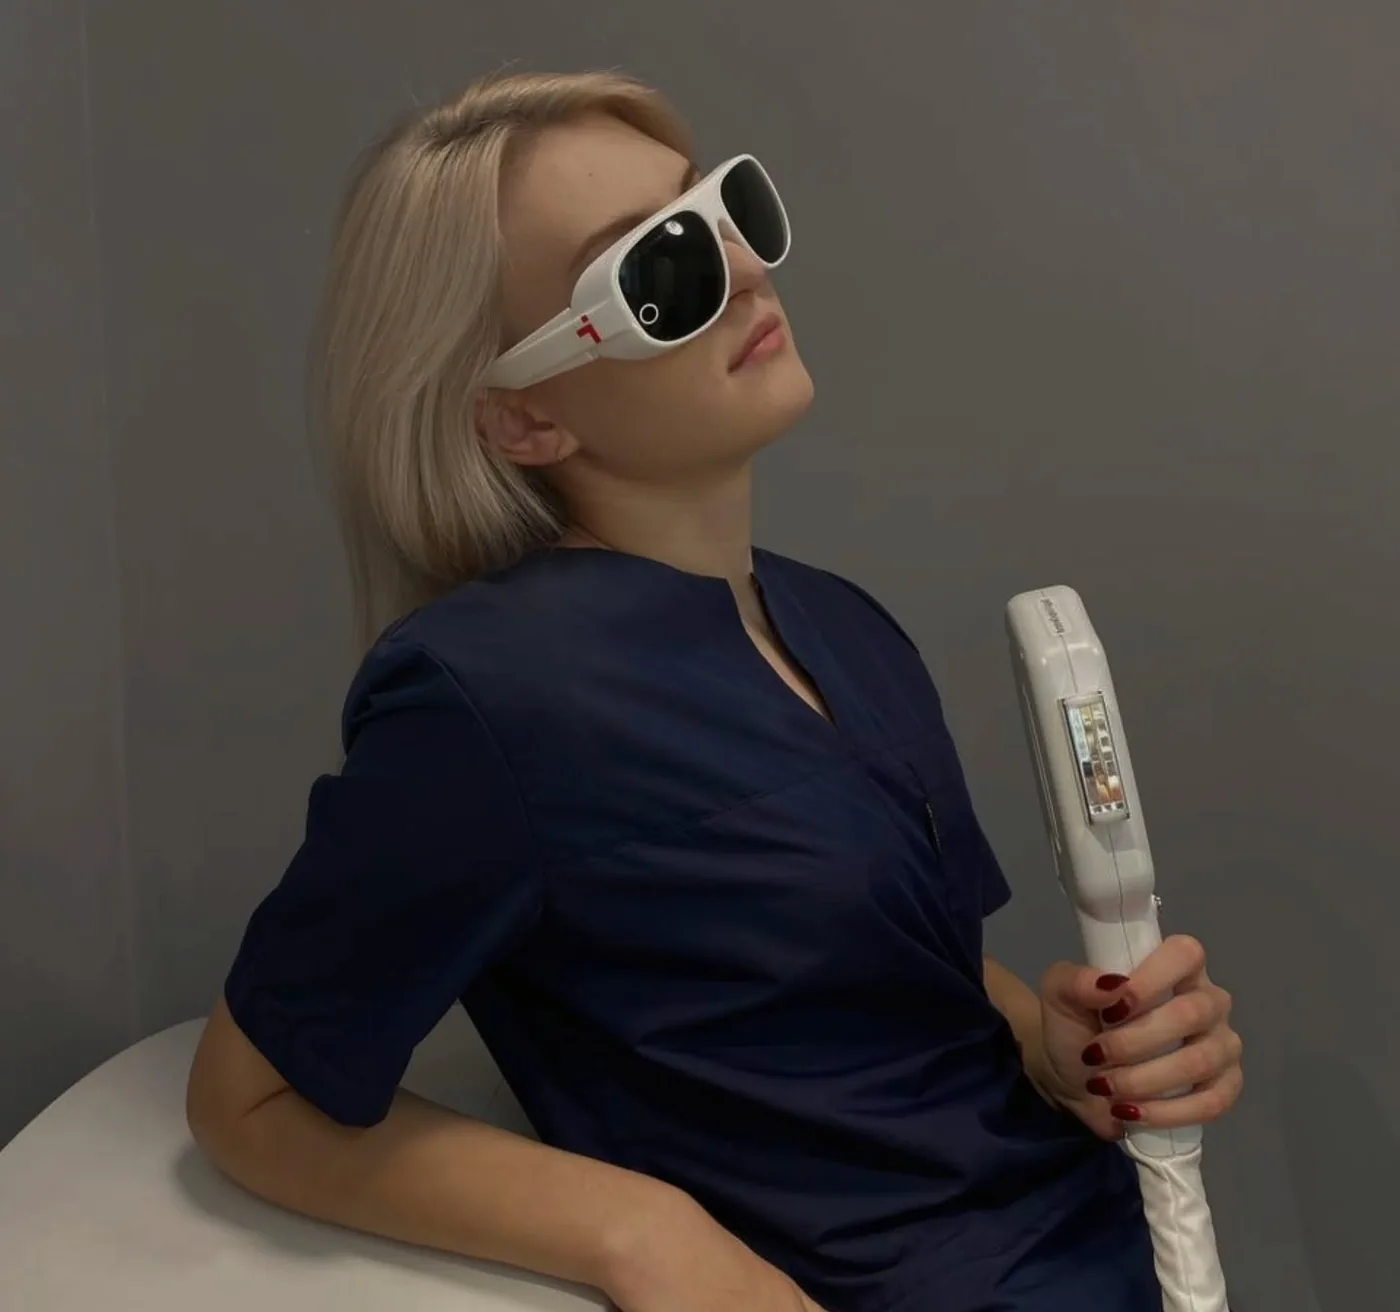
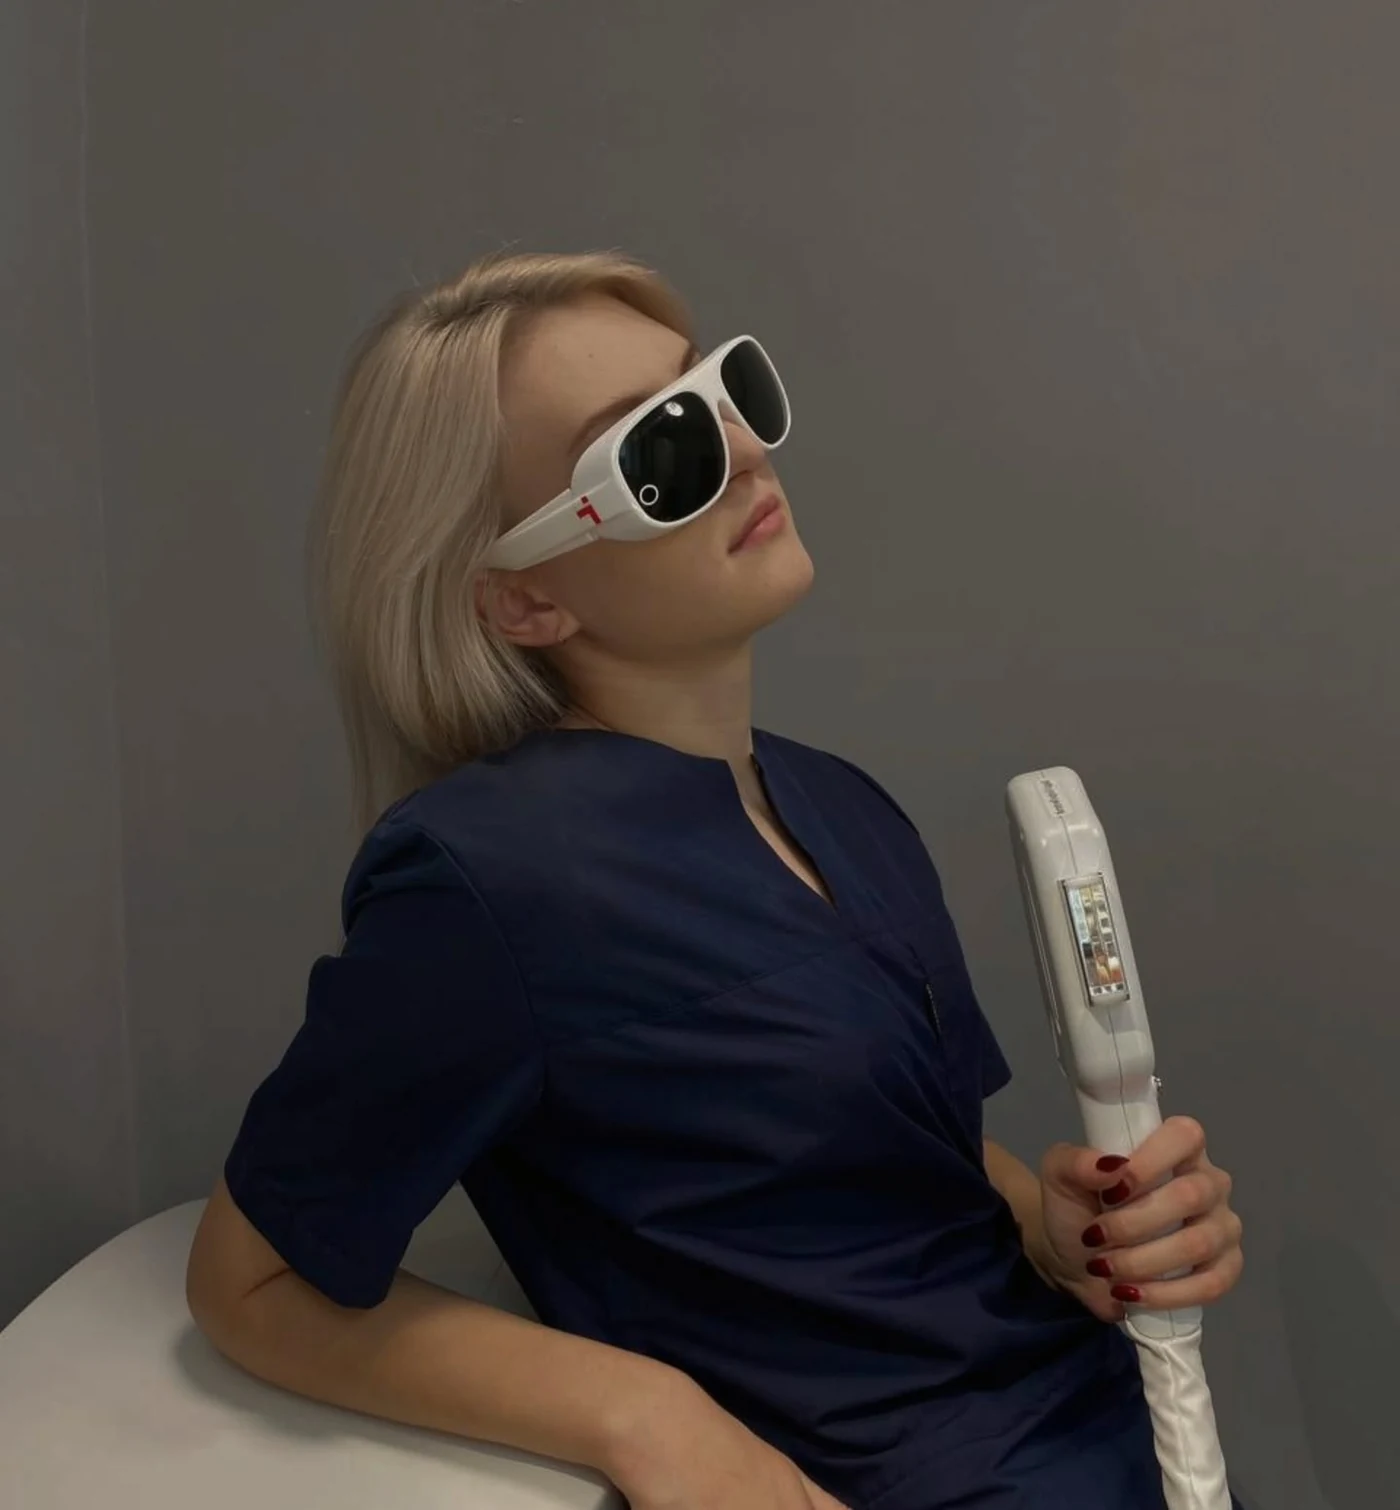
Sphinx: new hero photo, menu fits one screen, lighter rose map, smaller mobile kicker
Claude-Session: https://claude.ai/code/session_015USu4HwaNhKR7Lttcm98WS

diff --git a/sphinx/index.html b/sphinx/index.html
@@ -105,14 +105,14 @@ p{margin:0}
 .menu-open .burger i:nth-child(3){transform:translateY(-5.5px) rotate(-45deg)}
 
 /* mobile menu */
-.mm{position:fixed;inset:0;z-index:55;background:radial-gradient(120% 70% at 100% 0%,#3a1838 0%,var(--night) 55%);display:flex;flex-direction:column;padding:96px var(--pad) calc(26px + env(safe-area-inset-bottom));clip-path:circle(0% at calc(100% - 46px) 39px);transition:clip-path .75s var(--ease);visibility:hidden;overflow-y:auto}
+.mm{position:fixed;inset:0;z-index:55;background:radial-gradient(120% 70% at 100% 0%,#3a1838 0%,var(--night) 55%);display:flex;flex-direction:column;height:100svh;padding:clamp(76px,11svh,96px) var(--pad) calc(clamp(14px,2.6svh,26px) + env(safe-area-inset-bottom));clip-path:circle(0% at calc(100% - 46px) 39px);transition:clip-path .75s var(--ease);visibility:hidden;overflow:hidden}
 .menu-open .mm{clip-path:circle(150% at calc(100% - 46px) 39px);visibility:visible}
 .mm-nav{display:flex;flex-direction:column}
-.mm-nav a{display:flex;align-items:baseline;gap:14px;padding:11px 0;border-bottom:1px solid var(--line);font-family:Prata,serif;font-size:24px;opacity:0;transform:translateY(16px);transition:opacity .5s,transform .6s var(--ease)}
+.mm-nav a{display:flex;align-items:baseline;gap:14px;padding:clamp(6px,1.35svh,12px) 0;border-bottom:1px solid var(--line);font-family:Prata,serif;font-size:clamp(19px,2.9svh,24px);line-height:1.3;opacity:0;transform:translateY(16px);transition:opacity .5s,transform .6s var(--ease)}
 .mm-nav a small{font-family:Onest;font-size:12px;color:var(--neon);letter-spacing:.12em;min-width:22px}
 .menu-open .mm-nav a{opacity:1;transform:none}
 .mm-nav a:nth-child(2){transition-delay:.04s}.mm-nav a:nth-child(3){transition-delay:.08s}.mm-nav a:nth-child(4){transition-delay:.12s}.mm-nav a:nth-child(5){transition-delay:.16s}.mm-nav a:nth-child(6){transition-delay:.2s}.mm-nav a:nth-child(7){transition-delay:.24s}
-.mm-foot{margin-top:auto;padding-top:26px;display:grid;gap:14px;opacity:0;transition:opacity .6s .25s}
+.mm-foot{margin-top:auto;padding-top:clamp(12px,2.4svh,26px);display:grid;gap:clamp(10px,1.6svh,14px);opacity:0;transition:opacity .6s .25s}
 .menu-open .mm-foot{opacity:1}
 .mm-foot .pair{max-width:none}
 .mm-contacts{display:flex;flex-wrap:wrap;gap:8px 18px;font-size:14px;color:var(--mist)}
@@ -121,7 +121,7 @@ p{margin:0}
 /* hero */
 .hero{position:relative;min-height:100svh;display:flex;align-items:center;overflow:hidden;background:var(--night)}
 .hero-photo{position:absolute;top:0;bottom:0;right:0;width:62%;}
-.hero-photo img{position:absolute;top:0;left:9%;width:91%;height:100%;object-fit:cover;object-position:30% 0}
+.hero-photo img{position:absolute;top:0;left:9%;width:91%;height:100%;object-fit:cover;object-position:50% 0}
 .hero-photo::after{content:"";position:absolute;inset:0;background:linear-gradient(90deg,var(--night) 0%,var(--night) 9%,rgba(14,10,18,.78) 22%,rgba(14,10,18,.15) 50%,rgba(14,10,18,0) 70%),linear-gradient(0deg,rgba(14,10,18,.85) 0%,rgba(14,10,18,0) 28%)}
 .hero-in{position:relative;z-index:3;width:100%;padding-top:110px;padding-bottom:70px}
 .hero-txt{max-width:640px;position:relative}
@@ -433,7 +433,7 @@ p{margin:0}
 .map-wrap{position:relative;border-radius:22px;overflow:hidden;min-height:440px;border:1px solid var(--line)}
 #map{position:absolute;inset:0;background:#160f1b}
 .leaflet-container{font-family:Onest,sans-serif;background:#160f1b}
-.leaflet-tile-pane{filter:invert(1) grayscale(1) brightness(.78) contrast(1.18) sepia(.5) hue-rotate(245deg) saturate(1.9)}
+.leaflet-tile-pane{filter:invert(1) grayscale(1) brightness(1.2) contrast(.85) sepia(.55) hue-rotate(282deg) saturate(1.8)}
 .leaflet-control-attribution{background:rgba(14,10,18,.7)!important;color:#9c8aa6!important;font-size:10px!important}
 .leaflet-control-attribution a{color:#cbb9d4!important}
 .leaflet-bar a{background:#221728!important;color:#fff!important;border-color:var(--line)!important}
@@ -588,9 +588,9 @@ p{margin:0}
 @media (max-width:900px){
   .hero{align-items:flex-end;min-height:auto}
   .hero-photo{width:100%;height:62svh;min-height:400px;position:absolute;top:0;bottom:auto}
-  .hero-photo img{top:0;left:0;width:100%;height:100%;object-position:30% 0}
+  .hero-photo img{top:0;left:0;width:100%;height:100%;object-position:46% 0}
   .hero-photo::after{background:linear-gradient(0deg,var(--night) 4%,rgba(14,10,18,.6) 32%,rgba(14,10,18,0) 58%)}
-  .hero-in{padding-top:calc(62svh - 175px);padding-bottom:44px}
+  .hero-in{padding-top:calc(62svh - 130px);padding-bottom:44px}
   .hero-tag{display:none;top:96px;bottom:auto;right:auto;left:var(--pad);padding:8px 14px 8px 8px;font-size:13px}
   .hero-tag .dot{width:30px;height:30px}.hero-tag .dot svg{width:19px;height:19px}
   .mani,.svc,.cons,.tech,.master,.ct,.rvx{grid-template-columns:1fr}
@@ -622,7 +622,10 @@ p{margin:0}
   .burger,.hdr-cta+.burger{margin-left:auto;margin-right:0}
   .mm{clip-path:circle(0% at calc(100% - 42px) 34px)}
   .menu-open .mm{clip-path:circle(150% at calc(100% - 42px) 34px)}
-  .h1{font-size:clamp(40px,11.5vw,52px)}
+  .h1{font-size:clamp(40px,11.5vw,52px);margin-top:16px}
+  .hero .kicker{font-size:11px;letter-spacing:.14em;gap:8px;color:var(--mist);font-weight:500}
+  .hero .kicker .pulse3{color:var(--neon)}
+  .hero .kicker .pulse3 i{width:4px;height:4px}
   .lead{font-size:16.5px}
   .pair{grid-template-columns:1fr 1fr;gap:10px}
   .hero .pair{grid-template-columns:1fr;max-width:none}
